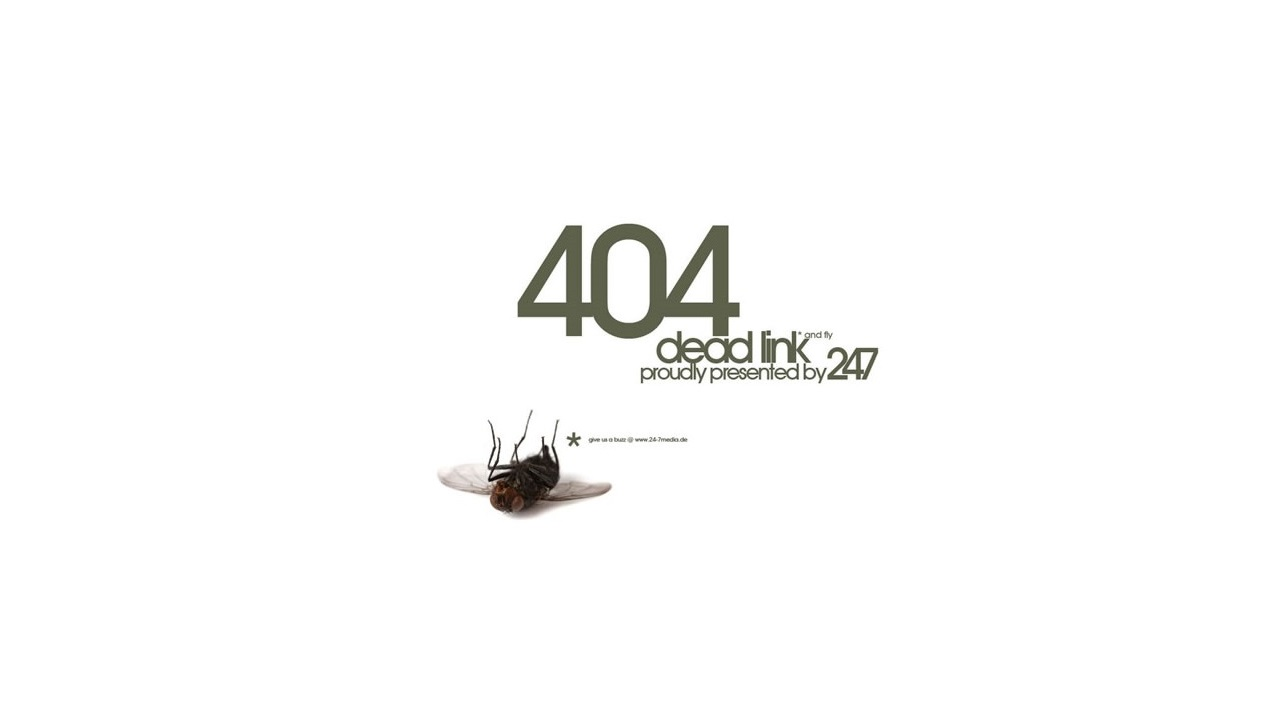
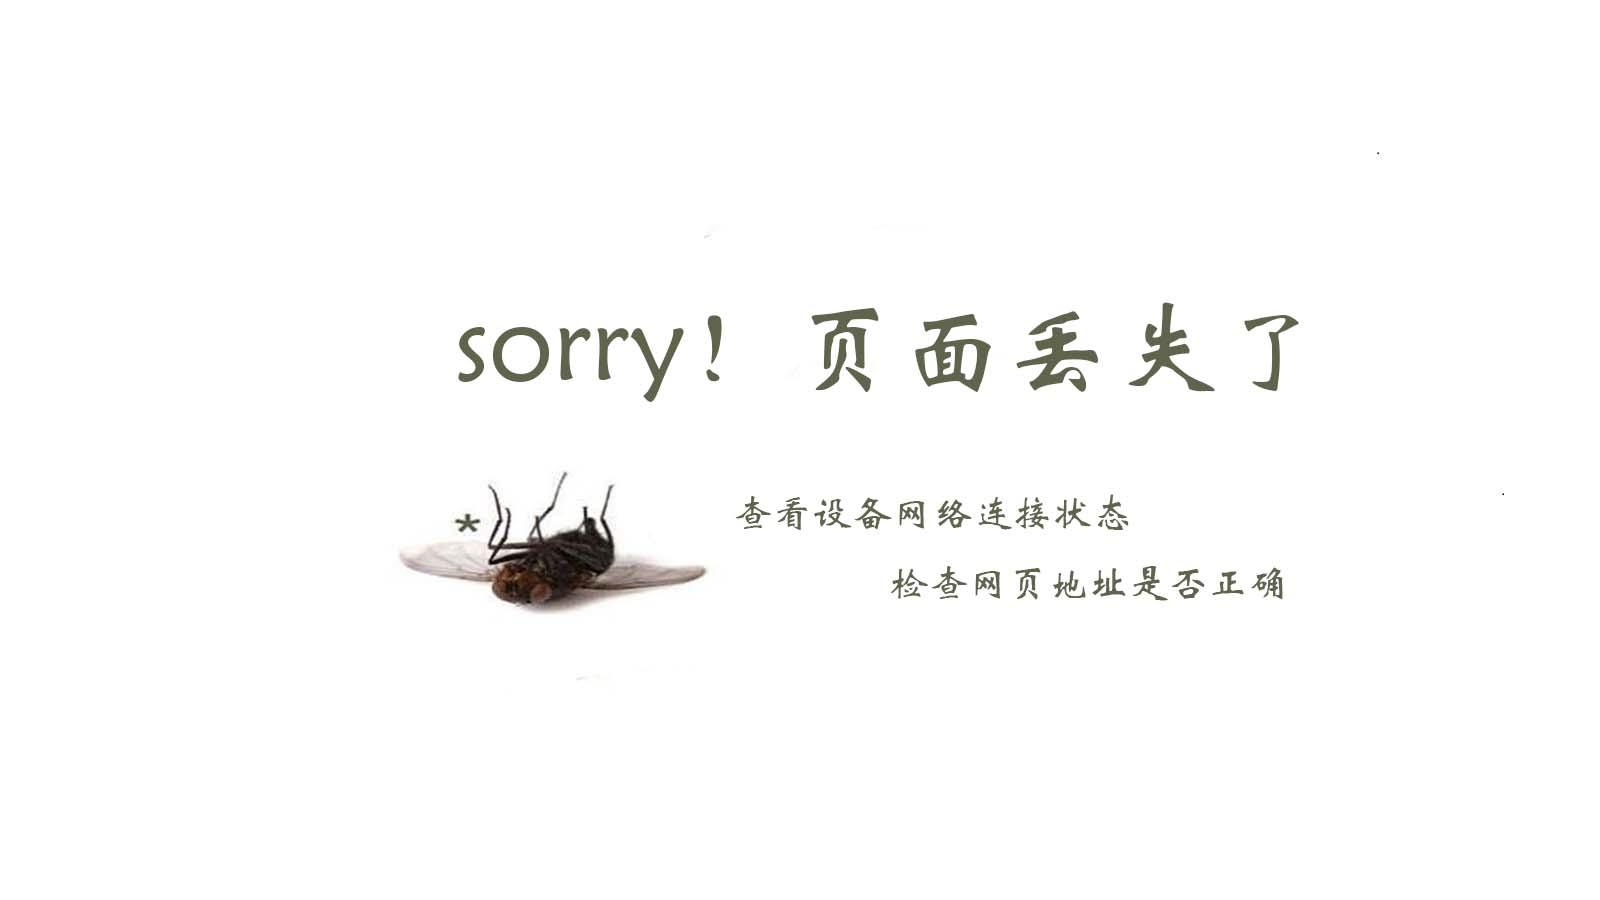
管理后台模块更新

Changed region(s): [[0.25, 0.3056, 0.8125, 0.7333], [0.7812, 0.3361, 0.8125, 0.4278]]

diff --git a/modules/admin/views/public/error.php b/modules/admin/views/public/error.php
@@ -8,25 +8,17 @@ use yii\helpers\Url;
 </head>
 <body>
 <style type="text/css">
-    body{
+    body {
         overflow: hidden;
     }
-    img{
+
+    img {
         width: 100%;
-        height:100%;
-    }
-    .message{
-        position: absolute;
-        left: 40%;
-        top:15%;
-        color: #5E6249;
-        font-size: 3em;
-        font-weight: bold;
+        height: 100%;
     }
 </style>
 <div class="system-message">
-    <p class="message">服务器故障</p>
-    <img  src="<?php echo Yii::$app->request->getHostInfo() . '/static/images/50x.jpg'; ?>" alt=""/>
+    <img src="<?php echo Yii::$app->request->getHostInfo() . '/static/images/50x.jpg'; ?>" alt=""/>
 </div>
 </body>
 </html>

diff --git a/modules/admin/views/public/404.php b/modules/admin/views/public/404.php
@@ -8,14 +8,6 @@
         width: 100%;
         height:100%;
     }
-    .message{
-        position: absolute;
-        left: 40%;
-        top:15%;
-        color: #5E6249;
-        font-size: 3em;
-        font-weight: bold;
-    }
 </style>
 <div>
     <img style="width: 100%;height: 100%;" src="<?php echo  Yii::$app->request->getHostInfo().'/static/images/404.jpg';?>">
